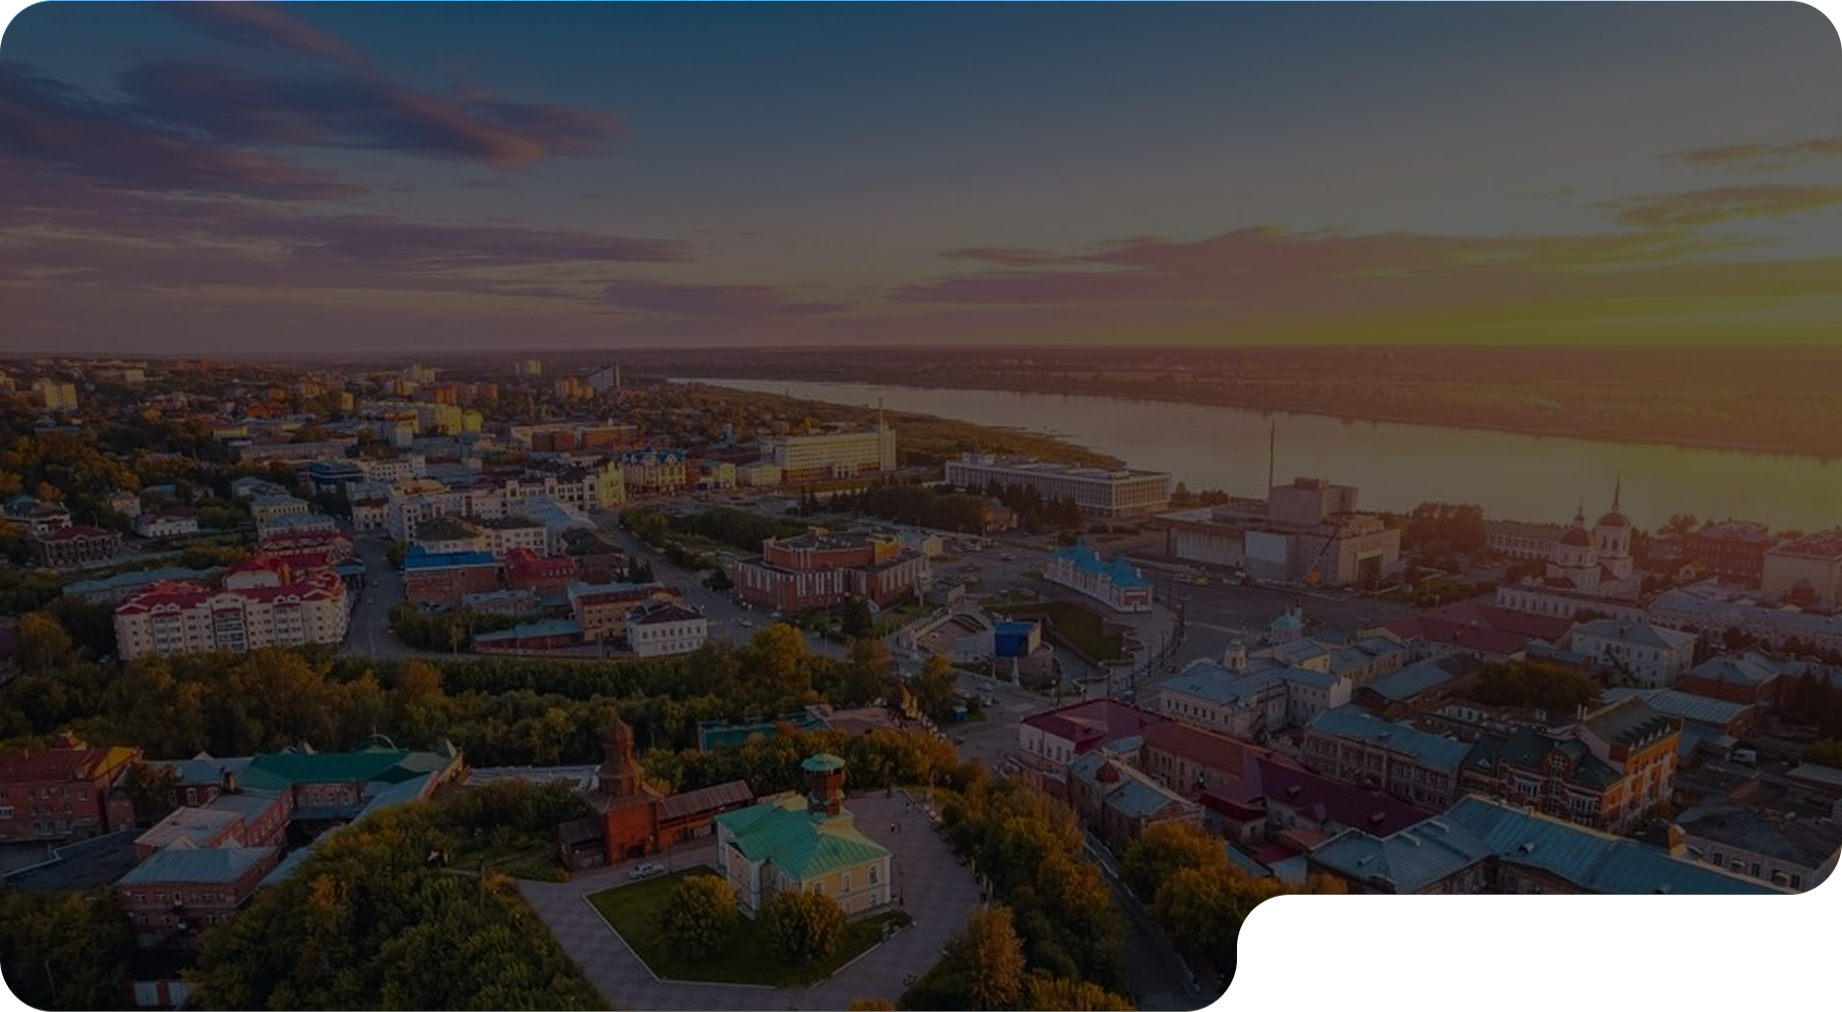
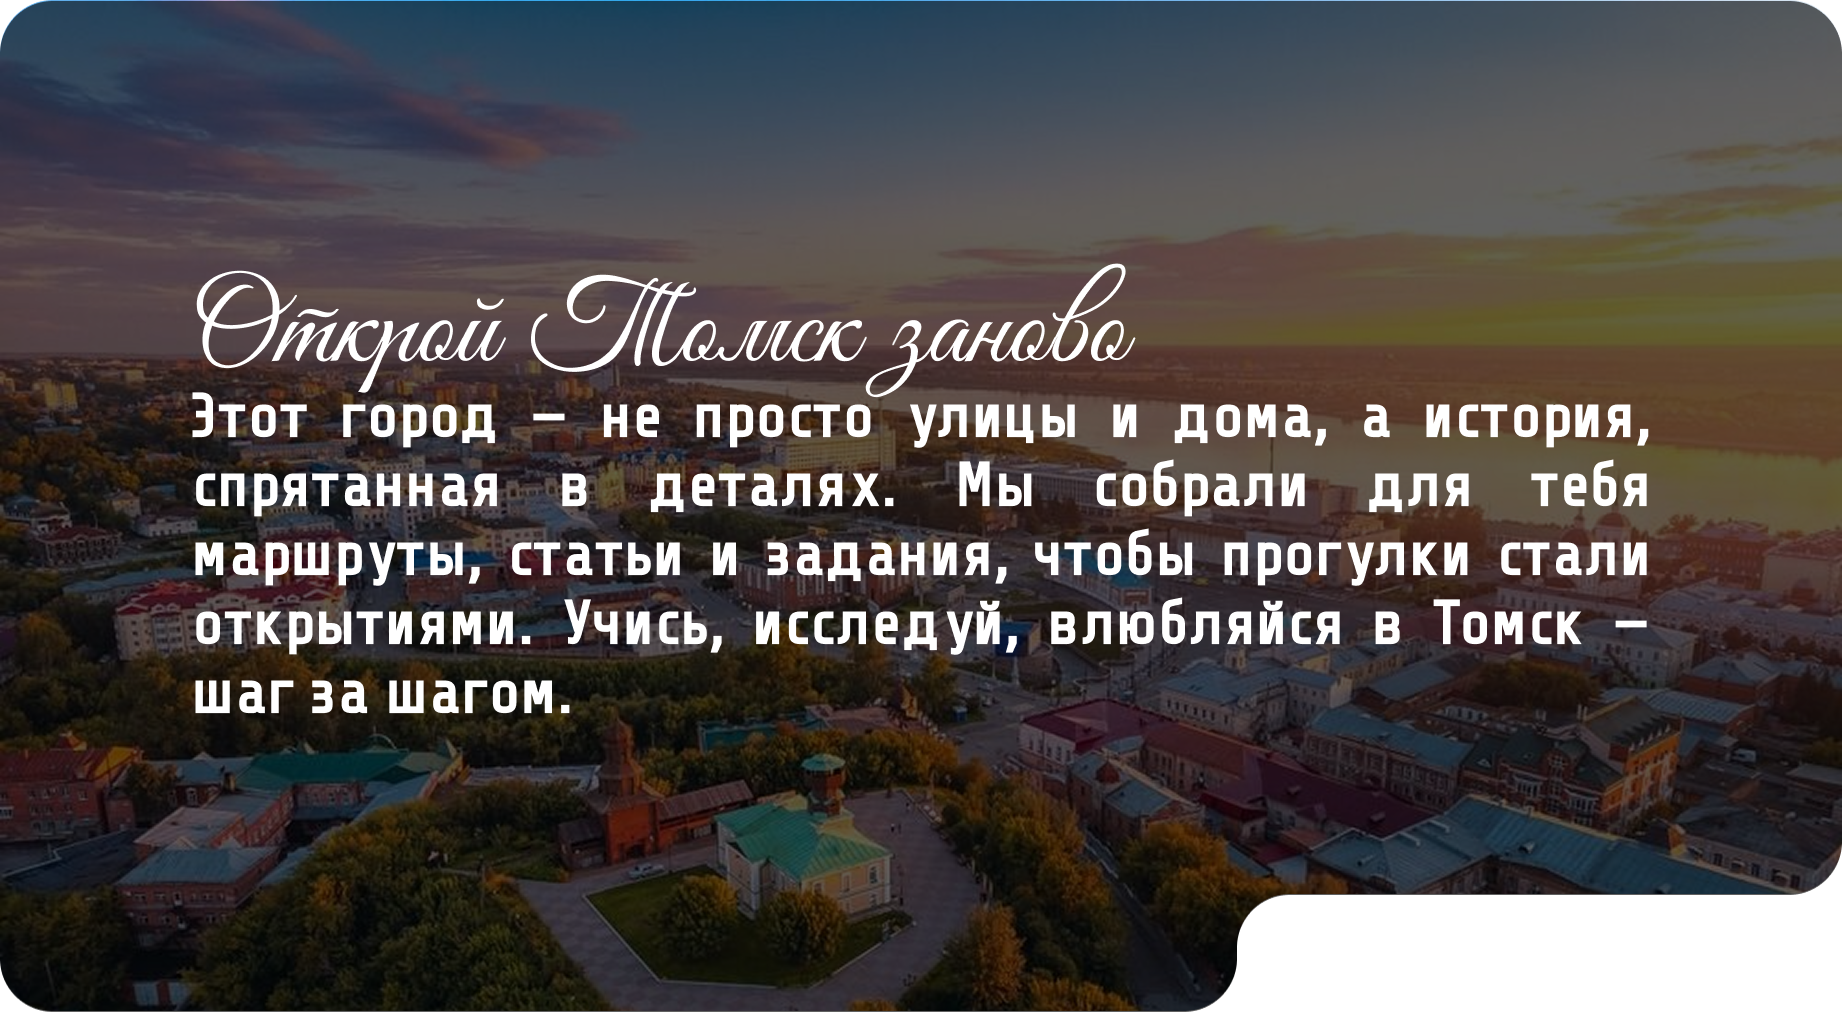
feat: текущие изменения

Changed region(s): [[0.0928, 0.2451, 0.8974, 0.6433], [0.0928, 0.6739, 0.3094, 0.7045]]

diff --git a/CSS/style.css b/CSS/style.css
@@ -14,20 +14,67 @@
 }
 
 .hero-banner {
+  position: relative; /* Обязательно для абсолютного позиционирования nav */
   display: grid;
   width: 85vw;
   margin: 0 auto;
 }
 
 .hero-banner img {
-  grid-area: 1/1; /* Помещаем в первую ячейку */
+  grid-area: 1/1;
   width: 100%;
   height: auto;
+  border-radius: 40px;
 }
 
-.hero-banner h1 {
-    font-family: "Good Vibes";
-  grid-area: 1/1; /* Накладываем на то же место */
+
+.hero-banner {
+  position: relative;
+  display: grid;
+  width: 85vw;
+  margin: 0 auto;
+}
+
+.hero-banner img {
+  grid-area: 1/1;
+  width: 100%;
+  height: auto;
+  border-radius: 40px;
+}
+
+.navBar {
+  position: absolute;
+  top: 20px;
+  left: 0;
+  right: 0;
+  padding: 0.8rem 2rem;
+  width: 90%;
+  height: 84px;
+  box-sizing: border-box;
+  display: flex;
+  justify-content: center;
+  z-index: 10;
+  border: 2px solid #ffffff;
+  border-radius: 53px;
+  max-width: 90%;
+}
+
+.navBar ul {
+  display: flex;
+  justify-content: space-around;
+  align-items: center;
+  width: 100%;
+  list-style: none;
+  margin: 0;
+  padding: 0;
+}
+
+.logo {
+    
+}
+
+.navBar li a {
+  text-decoration: none;
   color: white;
   font-size: 50px;
   text-shadow: 2px 2px 4px rgba(0,0,0,0.5);

diff --git a/index.html b/index.html
@@ -7,17 +7,21 @@
     <title>Томск для каждого</title>
   </head>
   <body>
-    <header>
-      <nav>
-        <div class="navBar"></div>
+    <header class="hero-banner">
+      <img src="/Sourse/Img/mainImg.png" alt="Томск" />
+      <nav class="navBar">
+        <ul>
+          <li>
+            <a href="#"
+              ><img src="/Sourse/Img/Logo.png" alt="logo" class="Logo"
+            /></a>
+          </li>
+          <li><a href="#">Статьи</a></li>
+          <li><a href="#">Задания</a></li>
+          <li><a href="#">О нас</a></li>
+          <li><a href="#">Профиль</a></li>
+        </ul>
       </nav>
     </header>
-    <main class="main">
-      <div class="hero-banner">
-        <img src="/Tomsk4everyone/Sourse/Img/mainImg.png" alt="Томск" />
-        <h1>Открой Томск заново</h1>
-      </div>
-      >
-    </main>
   </body>
 </html>
